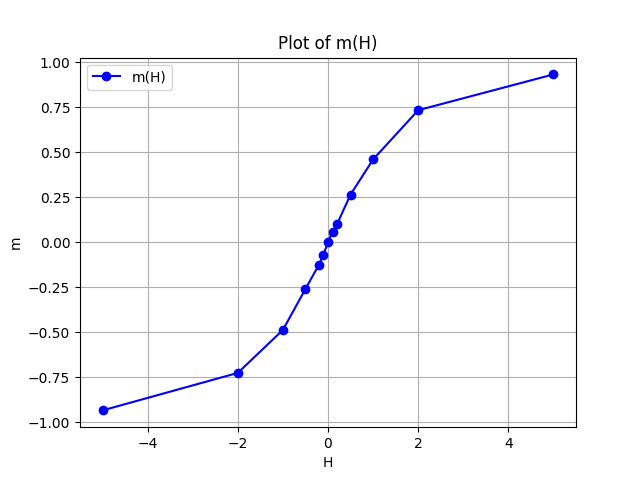
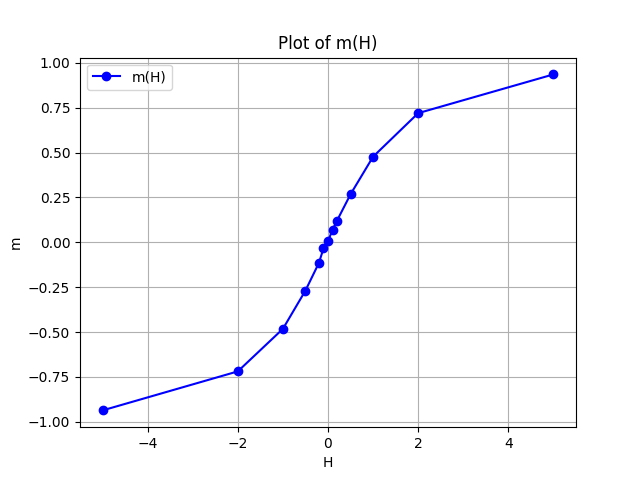
update

diff --git a/Assignments/HW1/exercise2/exercise2a.py b/Assignments/HW1/exercise2/exercise2a.py
@@ -91,7 +91,7 @@ import time
 from tkinter import *
 
 f = 0.05  # Number of randomly selected spins to flip-test.
-N_skip = 999 #10  Visualize status every N_skip steps. 
+N_skip = 4999 #10  Visualize status every N_skip steps. 
 
 window_size = 600
 
@@ -100,9 +100,9 @@ H_list = np.array([-5, -2, -1, -0.5, -0.2, -0.1, 0, 0.1, 0.2, 0.5, 1, 2, 5])  # 
 J = 1  # Spin-spin coupling.
 T = 5  # Temperature. Temperatura critica ~2.269.
 
-steps_max = 1000
+steps_max = 5000
 m = np.zeros(len(H_list))
-avg = 200
+avg = 300
 N = 100
 for index, H in enumerate(H_list):
     #### Re-initialize for each H ####
@@ -207,24 +207,6 @@ plt.legend()
 plt.grid(True)
 plt.show()
 
-### Linear fit with more elements ####
-delta = 0.21 
-# Select data points within the range |H| < delta
-H_fit = np.array([elem for elem in H_list if np.abs(elem) < delta])
-indices = np.where(np.abs(H_list) < delta)
-m_fit = m[indices]
-
-slope, intercept = np.polyfit(H_fit, m_fit, 1)
-fitted_line = slope * np.array(H_list) + intercept
-plt.plot(H_list, m, marker='o', linestyle='-', color='b', label='m(H)')
-plt.plot(H_list, slope * H_list, color='r', linestyle='--', label=f'Linear Fit: y = {slope:.2f}x around H=0')
-plt.xlabel('H')
-plt.ylabel('m')
-plt.ylim([-1, 1])
-plt.title('Plot of m(H) with Linear Fit Around H=0')
-plt.legend()
-plt.grid(True)
-plt.show()
 
 tk.update_idletasks()
 tk.update()
